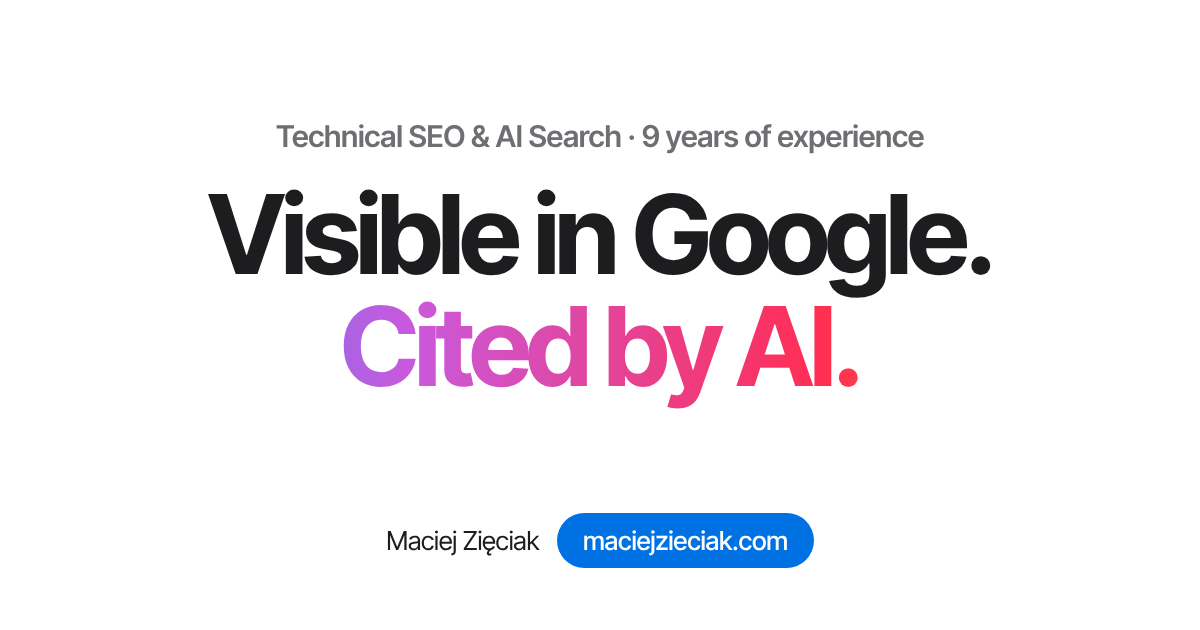
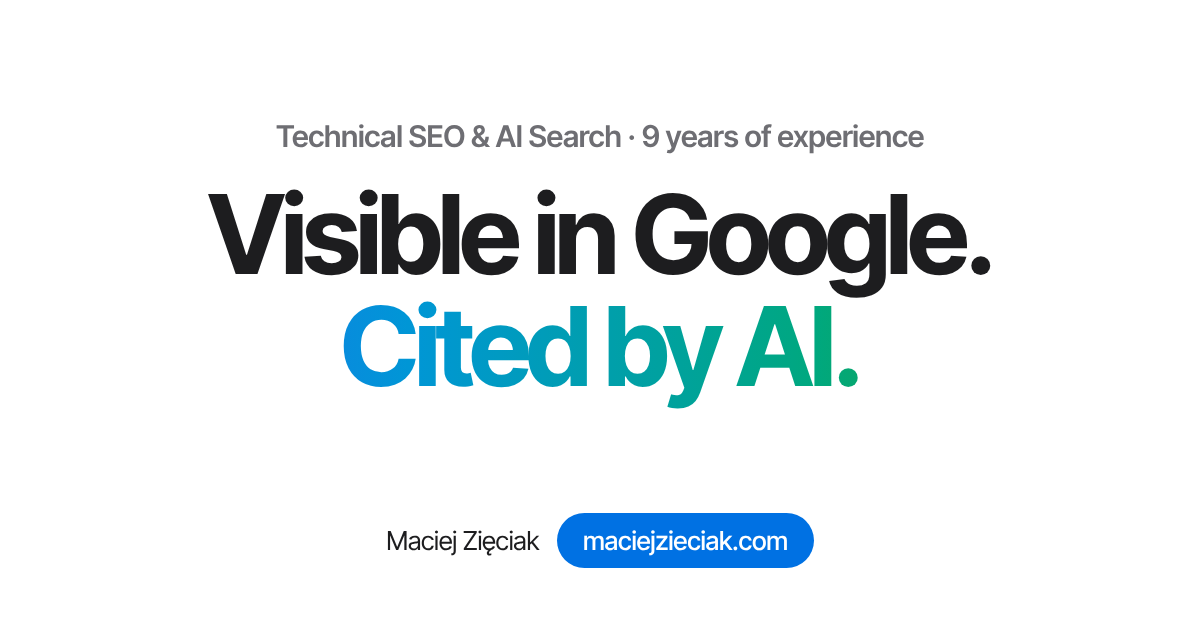
Own accent palette instead of Apple Intelligence colours
The four gradient stops now live as --a1..--a4 in global.css; components use
var() and color-mix() instead of hardcoded hex/rgb, so the palette is changed
in one place. New palette (cobalt, cyan, teal, green) keeps white text at 3:1
or better on every stop. Favicon, apple-touch-icon and OG images regenerated.

Claude-Session: https://claude.ai/code/session_0173YsSGFpzk1nU3va3rQVeU

Changed region(s): [[0.2775, 0.4825, 0.7092, 0.6635]]

diff --git a/src/styles/global.css b/src/styles/global.css
@@ -1,4 +1,4 @@
-/* Apple-inspired system: white / #f5f5f7 / black, #1d1d1f ink, blue actions, AI gradient. */
+/* Apple-inspired system: white / #f5f5f7 / black, #1d1d1f ink, blue actions, own accent gradient. */
 /* Scroll-driven values used only on the element they are set on. Registered as
    non-inherited so updating them every frame does not restyle the whole subtree. */
 @property --h { syntax: '<number>'; inherits: false; initial-value: 0; }
@@ -60,7 +60,14 @@
   --ok: #30d158;
   --warn: #ff9f0a;
   --err: #ff453a;
-  --ai: linear-gradient(90deg, #0894ff 0%, #c959dd 34%, #ff2e54 68%, #ff9004 100%);
+  /* Accent gradient stops: the single place the site's signature colours live.
+     Components mix them with color-mix() for glows, so changing these four recolours everything
+     (public/favicon.svg is static and carries its own copy). */
+  --a1: #2f5bff;
+  --a2: #0096d6;
+  --a3: #00a87e;
+  --a4: #3a9e00;
+  --ai: linear-gradient(90deg, var(--a1) 0%, var(--a2) 34%, var(--a3) 68%, var(--a4) 100%);
 
   /* Real SF Pro on Apple devices, Inter Tight everywhere else. */
   --font: -apple-system, BlinkMacSystemFont, 'SF Pro Display', 'Inter Tight Variable', 'Inter Tight', 'Helvetica Neue', Helvetica, Arial, sans-serif;
